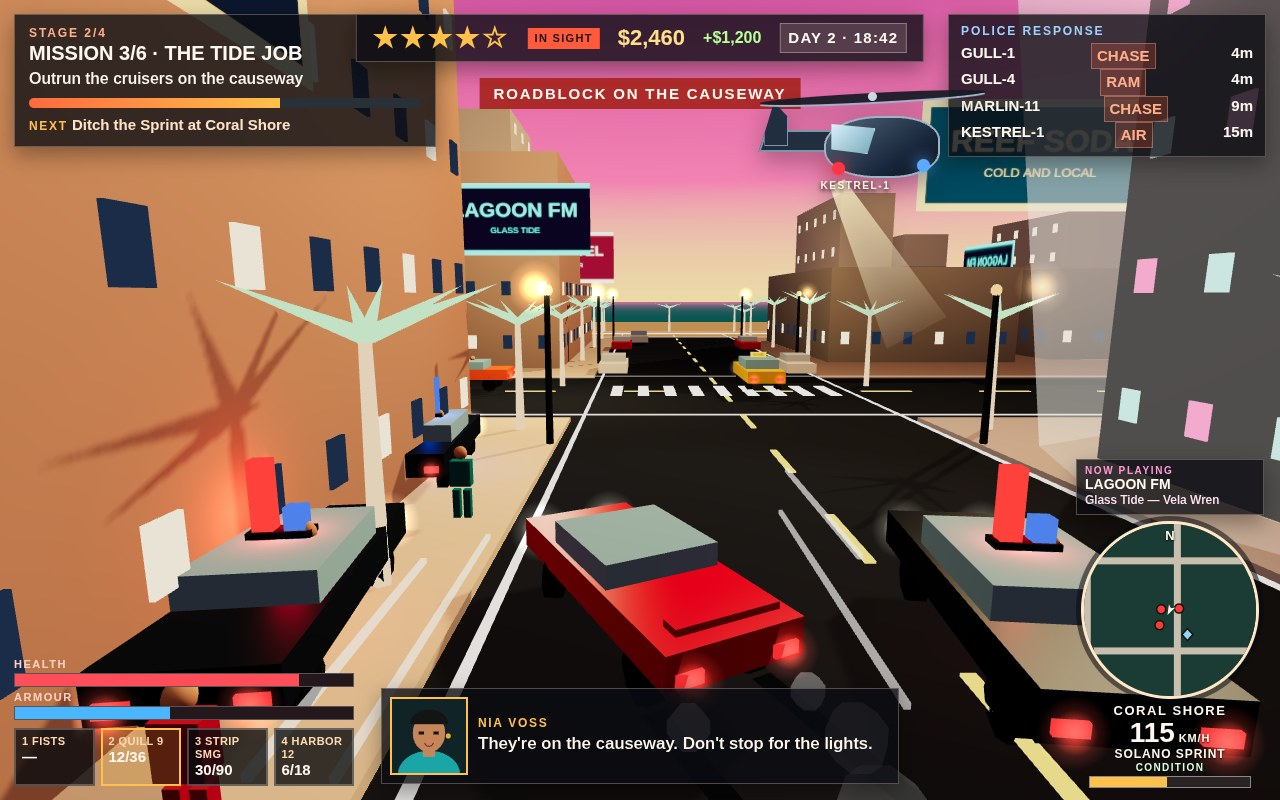
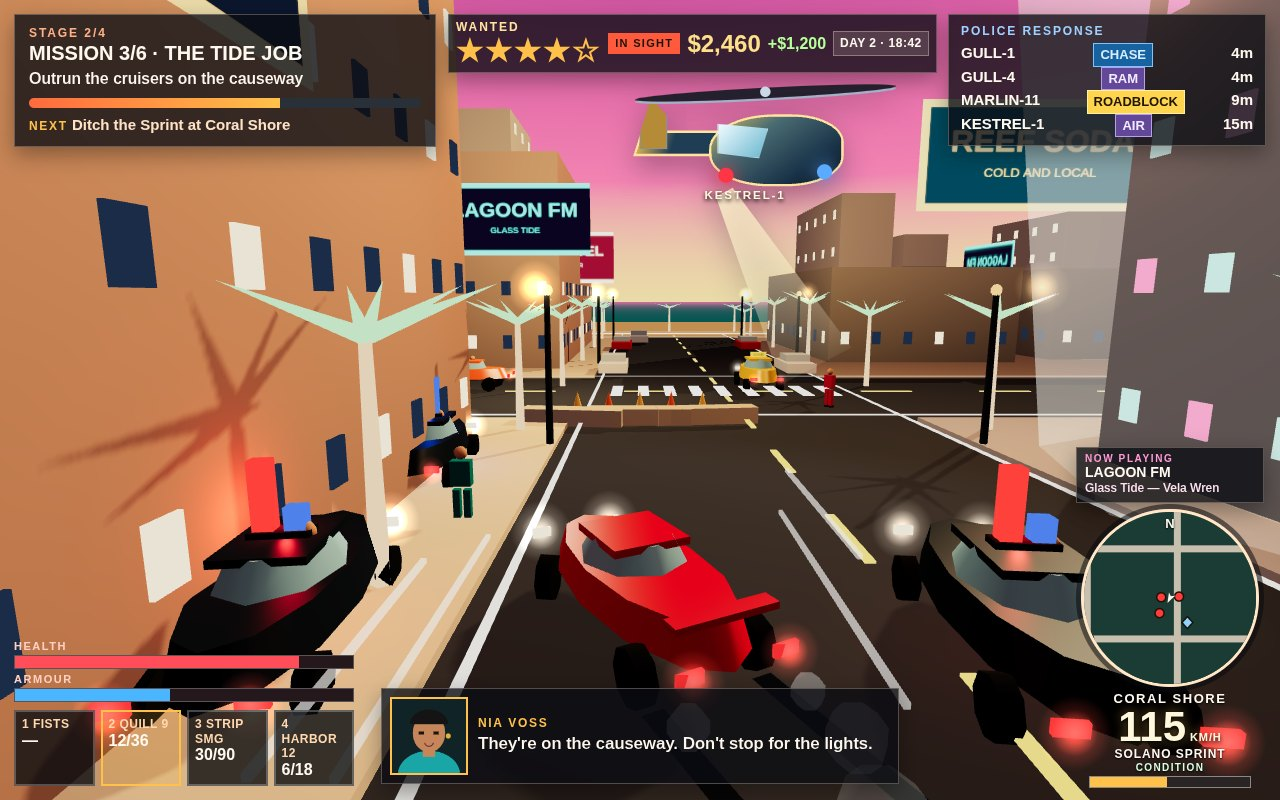
Polish chase and title presentation

diff --git a/game/index.html b/game/index.html
@@ -18,17 +18,23 @@
   #mission-fill { display: block; height: 100%; width: 0; background: linear-gradient(90deg, #ff6a3d, #ffc14a); }
   #mission-next { margin-top: 7px; font: 700 15px/1.3 sans-serif; color: #ffe2c6; }
   #mission-next b { color: #ffc14a; letter-spacing: 0.14em; font-size: 12px; }
-  #topbar { position: absolute; top: 14px; left: 50%; transform: translateX(-50%); display: flex; gap: 18px; align-items: center; padding: 8px 16px; }
-  #stars { color: #ffc14a; font: 800 28px/1 sans-serif; letter-spacing: 0.08em; }
+  #topbar { position: absolute; top: 14px; left: 35%; display: flex; gap: 7px; align-items: center; padding: 6px 7px; }
+  #stars { color: #ffc14a; font: 800 31px/1 sans-serif; letter-spacing: 0.04em; }
+  #stars::before { content: "WANTED"; display: block; margin-bottom: 2px; color: #ffe4a0; font: 900 12px/1 sans-serif; letter-spacing: 0.16em; }
   #insight { font: 800 11px/1 sans-serif; letter-spacing: 0.12em; color: #1a1208; background: #ff5a3c; padding: 5px 7px; }
-  #cash { font: 800 22px/1 sans-serif; color: #ffe08a; }
+  #cash { font: 800 24px/1 sans-serif; color: #ffe08a; }
   #cashpop { font: 800 16px/1 sans-serif; color: #b6ff9a; }
-  #clock { font: 700 15px/1.2 sans-serif; letter-spacing: 0.08em; padding: 5px 8px; background: rgba(255,244,230,0.14); border: 1px solid rgba(255,236,214,0.35); }
+  #clock { font: 700 12px/1.2 sans-serif; letter-spacing: 0.04em; padding: 4px 6px; background: rgba(255,244,230,0.14); border: 1px solid rgba(255,236,214,0.35); }
   #police { position: absolute; top: 14px; right: 14px; width: 292px; padding: 10px 12px 8px; }
   #police-kicker { font: 800 12px/1 sans-serif; letter-spacing: 0.16em; color: #9fd0ff; }
   #units { margin-top: 6px; font: 700 15px/1.35 sans-serif; }
   .unit { display: flex; justify-content: space-between; gap: 8px; }
-  .unit i { font-style: normal; color: #ffb089; padding: 2px 5px; background: rgba(255,90,60,0.22); border: 1px solid rgba(255,176,137,0.38); }
+  .unit i { font-style: normal; font-size: 13px; font-weight: 900; color: #fff; padding: 2px 6px; border: 1px solid transparent; }
+  .unit i.role-chase { color: #d7edff; background: #1762a1; border-color: #7bc5ff; }
+  .unit i.role-ram { color: #fff0d2; background: #bd4d21; border-color: #ffad63; }
+  .unit i.role-block { color: #211600; background: #ffd44f; border-color: #fff0a0; }
+  .unit i.role-air { color: #071629; background: #77d7ff; border-color: #d3f4ff; }
+  .unit i.role-other { color: #f2eaff; background: #63489a; border-color: #b7a0e9; }
   #notice { position: absolute; top: 78px; left: 50%; transform: translateX(-50%); padding: 8px 14px; background: rgba(168,36,32,0.92); font: 800 15px/1 sans-serif; letter-spacing: 0.12em; }
   #vitals { position: absolute; left: 14px; bottom: 14px; width: 340px; }
   .lbl { font: 800 11px/1 sans-serif; letter-spacing: 0.14em; color: #ffd0c4; margin-top: 5px; }
@@ -39,8 +45,8 @@
   #weapons { display: flex; gap: 6px; margin-top: 8px; }
   .slot { flex: 1; min-width: 0; padding: 5px 6px; border: 2px solid rgba(255,255,255,0.25); background: rgba(8,10,14,0.78); }
   .slot.on { border-color: #ffc14a; background: rgba(255,193,74,0.16); }
-  .slot span { display: block; font: 800 11px/1.2 sans-serif; letter-spacing: 0.04em; color: #ffd8b0; }
-  .slot b { font: 800 15px/1.15 sans-serif; }
+  .slot span { display: block; font: 800 12px/1.2 sans-serif; letter-spacing: 0.04em; color: #ffd8b0; }
+  .slot b { font: 800 16px/1.15 sans-serif; }
   #talk { position: absolute; left: 50%; bottom: 16px; width: 500px; transform: translateX(-50%); display: flex; gap: 10px; padding: 8px; align-items: center; }
   #portrait { width: 74px; height: 74px; background: #222; border: 2px solid #ffc14a; }
   #speaker { font: 800 12px/1 sans-serif; letter-spacing: 0.14em; color: #ffc14a; }
@@ -54,21 +60,21 @@
   #minimap { width: 172px; height: 172px; display: block; background: #14343a; }
   #north { position: absolute; top: 5px; left: 0; right: 0; text-align: center; font: 800 13px/1 sans-serif; text-shadow: 0 1px 2px #000; }
   #district { margin-top: 4px; font: 800 13px/1.2 sans-serif; letter-spacing: 0.12em; text-shadow: 0 1px 2px #000; }
-  #speed { font: 800 28px/1 sans-serif; text-shadow: 0 1px 2px #000; }
+  #speed { font: 900 42px/0.95 sans-serif; color: #fff8dc; text-shadow: 0 2px 4px #000, 0 0 12px rgba(255,189,78,0.5); }
   #speed small { font-size: 11px; letter-spacing: 0.08em; }
   #veh-name { font: 800 12px/1.2 sans-serif; letter-spacing: 0.08em; text-shadow: 0 1px 2px #000; }
   #cond-label { margin-top: 2px; font: 800 10px/1 sans-serif; letter-spacing: 0.14em; color: #d7ffe0; text-shadow: 0 1px 2px #000; }
   #cond { height: 10px; width: 160px; margin: 3px auto 0; background: #2a2424; border: 1px solid rgba(255,255,255,0.45); }
   #cond b { display: block; height: 100%; width: 0; background: #7dff6a; }
   #crosshair { position: absolute; left: 50%; top: 44%; width: 6px; height: 6px; margin: -3px 0 0 -3px; background: #fff; border-radius: 50%; box-shadow: 0 0 0 1px #111, 10px 0 0 -1px #fff, 16px 0 0 -1px #fff, 22px 0 0 -1px #fff, -10px 0 0 -1px #fff, -16px 0 0 -1px #fff, -22px 0 0 -1px #fff, 0 10px 0 -1px #fff, 0 16px 0 -1px #fff, 0 22px 0 -1px #fff, 0 -10px 0 -1px #fff, 0 -16px 0 -1px #fff, 0 -22px 0 -1px #fff; }
-  #chase-air { position: absolute; display: none; left: 58%; top: 76px; width: 260px; height: 150px; z-index: 3; filter: drop-shadow(0 10px 12px rgba(18,8,28,0.32)); }
+  #chase-air { position: absolute; display: none; left: 48%; top: 68px; width: 260px; height: 150px; z-index: 3; transform: scale(1.16); transform-origin: top left; filter: drop-shadow(0 10px 12px rgba(18,8,28,0.32)); }
   #chase-air.show { display: block; }
   #chase-air .rotor { position: absolute; left: 18px; top: 17px; width: 225px; height: 9px; border-radius: 50%; background: rgba(22,26,36,0.92); transform: rotate(-3deg); box-shadow: 0 2px 0 #9eb2c8; }
   #chase-air .rotor::before { content: ""; position: absolute; left: 108px; top: -1px; width: 9px; height: 9px; border-radius: 50%; background: #cbd9e4; }
-  #chase-air .body { position: absolute; left: 82px; top: 40px; width: 112px; height: 58px; border-radius: 48% 38% 42% 44%; background: linear-gradient(145deg,#52677a,#17253a 68%,#0b1018); border: 2px solid #9db4c5; }
-  #chase-air .glass { position: absolute; left: 89px; top: 48px; width: 42px; height: 28px; clip-path: polygon(0 0,100% 14%,82% 100%,0 85%); background: linear-gradient(135deg,#d8eff7,#76aabd); border: 1px solid #dcecf2; }
-  #chase-air .tail { position: absolute; left: 20px; top: 54px; width: 76px; height: 18px; background: #202e40; border: 2px solid #7f94a5; transform: skewX(-18deg); }
-  #chase-air .fin { position: absolute; left: 22px; top: 26px; width: 22px; height: 42px; background: #202e40; clip-path: polygon(40% 0,100% 35%,100% 100%,0 100%,0 72%); border: 1px solid #7f94a5; }
+  #chase-air .body { position: absolute; left: 82px; top: 40px; width: 112px; height: 58px; border-radius: 48% 38% 42% 44%; background: linear-gradient(145deg,#d5b95e 0%,#496b72 32%,#183147 74%,#0b1018); border: 2px solid #ffe4a0; }
+  #chase-air .glass { position: absolute; left: 89px; top: 48px; width: 42px; height: 28px; clip-path: polygon(0 0,100% 14%,82% 100%,0 85%); background: linear-gradient(135deg,#effbff,#69b6cf); border: 1px solid #dcecf2; }
+  #chase-air .tail { position: absolute; left: 20px; top: 54px; width: 76px; height: 18px; background: linear-gradient(90deg,#d4ad4b,#203d56 38%); border: 2px solid #ffe4a0; transform: skewX(-18deg); }
+  #chase-air .fin { position: absolute; left: 22px; top: 26px; width: 22px; height: 42px; background: #b68b38; clip-path: polygon(40% 0,100% 35%,100% 100%,0 100%,0 72%); border: 1px solid #7f94a5; }
   #chase-air .lamp-l { position: absolute; left: 90px; top: 86px; width: 13px; height: 13px; border-radius: 50%; background: #ff3444; box-shadow: 0 0 16px #ff3444; }
   #chase-air .lamp-r { position: absolute; left: 175px; top: 83px; width: 13px; height: 13px; border-radius: 50%; background: #5aaaff; box-shadow: 0 0 16px #5aaaff; }
   #chase-air .beam { position: absolute; left: 125px; top: 91px; width: 170px; height: 68px; transform: rotate(62deg); transform-origin: 0 0; clip-path: polygon(0 38%,100% 0,100% 100%,0 62%); background: linear-gradient(90deg,rgba(255,246,205,0.82),rgba(255,246,205,0.08)); }

diff --git a/game/src/shots.js b/game/src/shots.js
@@ -56,11 +56,15 @@ function placePed(ped, x, z, yaw) {
   ped.mesh.rotation.y = yaw;
 }
 
-function driftFx(scene, x, z, yaw) {
+function driftFx(scene, x, z, yaw, roadYaw) {
   const nx = -Math.sin(yaw);
   const nz = -Math.cos(yaw);
   const rx = Math.cos(yaw);
   const rz = -Math.sin(yaw);
+  const roadX = -Math.sin(roadYaw);
+  const roadZ = -Math.cos(roadYaw);
+  const sideX = Math.cos(roadYaw);
+  const sideZ = -Math.sin(roadYaw);
   const smokeGeo = new THREE.SphereGeometry(0.34, 6, 5);
   const puff = [
     [0.72, 2.35, 0.28, 0.55, 0.4],
@@ -104,9 +108,9 @@ function driftFx(scene, x, z, yaw) {
   const blockGeo = new THREE.BoxGeometry(3.4, 0.55, 0.8);
   for (let i = -1; i <= 1; i++) {
     const mesh = new THREE.Mesh(blockGeo, blockMat);
-    const dist = 7.4 + i * 0.15;
-    mesh.position.set(x - nx * dist + rx * i * 2.25, 0.32, z - nz * dist + rz * i * 2.25);
-    mesh.rotation.y = yaw + (i === 0 ? 0 : i * 0.12);
+    const dist = 13.5 + i * 0.15;
+    mesh.position.set(x + roadX * dist + sideX * i * 2.25, 0.32, z + roadZ * dist + sideZ * i * 2.25);
+    mesh.rotation.y = roadYaw + (i === 0 ? 0 : i * 0.12);
     mesh.castShadow = true;
     scene.add(mesh);
   }
@@ -115,13 +119,13 @@ function driftFx(scene, x, z, yaw) {
       new THREE.ConeGeometry(0.24, 0.85, 7),
       new THREE.MeshLambertMaterial({ color: i % 2 ? 0xff7a24 : 0xffcc55 }),
     );
-    cone.position.set(x - nx * 8.8 + rx * i * 1.15, 0.42, z - nz * 8.8 + rz * i * 1.15);
+    cone.position.set(x + roadX * 15.5 + sideX * i * 1.15, 0.42, z + roadZ * 15.5 + sideZ * i * 1.15);
     scene.add(cone);
   }
 }
 
 function stageChase(world, shot) {
-  const { combat, wanted, missions, dialogue, toast, radio } = world;
+  const { combat, wanted, missions, dialogue, toast, radio, peds } = world;
   setWantedStars(wanted, 4, shot.x, shot.z);
   wanted.seen = true;
   const ride = drive(world, 0, shot, 32, 0.48);
@@ -136,7 +140,9 @@ function stageChase(world, shot) {
   stagePolice(world.police, 'chase', shot.x, shot.z, shot.yaw);
   world.police.officers[0].active = false;
   world.police.officers[0].mesh.visible = false;
-  driftFx(world.scene, shot.x, shot.z, shot.face);
+  driftFx(world.scene, shot.x, shot.z, shot.face, shot.yaw);
+  placePed(peds.list[0], shot.x - 7.2, shot.z - 13, shot.face + 1.5);
+  placePed(peds.list[1], shot.x + 7.4, shot.z - 17, shot.face - 1.5);
   const facadeLight = new THREE.PointLight(0xffbd78, 38, 38, 1.35);
   facadeLight.position.set(shot.x + 10, 12, shot.z - 8);
   world.scene.add(facadeLight);
@@ -150,8 +156,8 @@ function stageChase(world, shot) {
   combat.loadout.index = 1;
   stageMission(missions, 'chase');
   sayLine(dialogue, 'nia', "They're on the causeway. Don't stop for the lights.", 999);
-  toast.text = 'ROADBLOCK ON THE CAUSEWAY';
-  toast.t = 999;
+  toast.text = '';
+  toast.t = 0;
   radio.index = 0;
   return ride;
 }

diff --git a/game/src/vehicles.js b/game/src/vehicles.js
@@ -16,6 +16,8 @@ export const CAR_TYPES = [
 const BOX = new THREE.BoxGeometry(1, 1, 1);
 const WHEEL_GEO = new THREE.CylinderGeometry(0.33, 0.33, 0.22, 8);
 WHEEL_GEO.rotateZ(Math.PI / 2);
+const BODY_GEO = new THREE.CylinderGeometry(0.9, 1, 1, 12, 1);
+const CABIN_GEO = new THREE.CylinderGeometry(0.72, 1, 1, 8, 1);
 const HEAD_GEO = new THREE.SphereGeometry(0.12, 6, 5);
 const GLASS = new THREE.MeshLambertMaterial({ color: 0x8ec4dc });
 const RUBBER = new THREE.MeshLambertMaterial({ color: 0x1a1c20 });
@@ -81,11 +83,17 @@ function buildCar(type) {
   const W = type.width;
   const H = type.height;
   const bodyY = 0.55 + H / 2;
-  const body = box(bodyMat, 0, bodyY, 0, W * 0.92, H, L);
+  const body = new THREE.Mesh(BODY_GEO, bodyMat);
+  body.position.y = bodyY;
+  body.scale.set(W * 0.46, H, L * 0.49);
   body.castShadow = true;
   group.add(body);
   const cabinY = 0.55 + H + type.cabinH / 2 - 0.06;
-  group.add(box(GLASS, 0, cabinY, type.cabinZ, W * 0.84, type.cabinH, type.cabinL));
+  const cabin = new THREE.Mesh(CABIN_GEO, GLASS);
+  cabin.position.set(0, cabinY, type.cabinZ);
+  cabin.scale.set(W * 0.4, type.cabinH, type.cabinL * 0.5);
+  group.add(cabin);
+  group.add(box(bodyMat, 0, cabinY + type.cabinH * 0.43, type.cabinZ, W * 0.58, 0.1, type.cabinL * 0.68));
   const nose = -L / 2;
   const tail = L / 2;
   group.add(box(headMat, -W * 0.32, bodyY * 0.92, nose - 0.02, 0.28, 0.14, 0.06));
@@ -98,7 +106,7 @@ function buildCar(type) {
   addGlow(group, W * 0.32, bodyY * 0.9, tail + 0.08, 0xff2a30, 0.62);
   const wheels = [];
   const wz = L * 0.32;
-  const wx = W * 0.36;
+  const wx = W * 0.42;
   const spots = [[-wx, -wz], [wx, -wz], [-wx, wz], [wx, wz]];
   for (let i = 0; i < spots.length; i++) {
     const pivot = new THREE.Group();

diff --git a/game/src/hud.js b/game/src/hud.js
@@ -175,8 +175,9 @@ export function updateHud(hud, s) {
     const n = Math.min(4, rows.length);
     for (let i = 0; i < n; i++) {
       const r = rows[i];
-      const role = r.role === 'chase' ? 'PURSUIT' : r.role === 'ram' ? 'RAMMING' : r.role === 'roadblock' ? 'ROADBLOCK' : r.role === 'air' ? 'SPOTLIGHT' : r.role;
-      html += '<div class="unit"><span>' + r.callsign + '</span><i>' + role + '</i><span>' + Math.round(r.dist) + 'm</span></div>';
+      const role = r.role === 'chase' ? 'CHASE' : r.role === 'ram' ? 'RAMMING' : r.role === 'roadblock' ? 'ROADBLOCK' : r.role === 'air' ? 'SPOTLIGHT' : r.role;
+      const chip = role === 'CHASE' ? 'chase' : role === 'RAMMING' ? 'ram' : role === 'ROADBLOCK' ? 'block' : role === 'SPOTLIGHT' ? 'air' : 'other';
+      html += '<div class="unit"><span>' + r.callsign + '</span><i class="role-' + chip + '">' + role + '</i><span>' + Math.round(r.dist) + 'm</span></div>';
     }
     hud.units.innerHTML = html;
   }

diff --git a/game/src/city.js b/game/src/city.js
@@ -8,7 +8,7 @@ import { dressAvenue } from './avenue.js';
 const PALETTE = {
   'Coral Shore': [0xffe4c4, 0xfff8ef, 0xf0a088, 0xf7cbb4],
   'Old Harbor': [0xd2b498, 0xa88870, 0xe4d2bc, 0x7f8e9a],
-  'Neon Strip': [0x1a2236, 0x2c2448, 0x141a28, 0x101620],
+  'Neon Strip': [0x554650, 0x614d65, 0x3f4358, 0x4a3e48],
   'Palm Heights': [0xffe6c2, 0xf4efe4, 0xe4d0a8, 0xd5e4d8],
   'Industrial Docks': [0x9aa2aa, 0x727a82, 0xb4bac0, 0x5c656e],
 };
@@ -97,7 +97,7 @@ export function createCity(scene, rng) {
 
   const asphalt = new THREE.Mesh(
     new THREE.PlaneGeometry(cityW + 36, cityD + 36),
-    new THREE.MeshLambertMaterial({ color: 0x2a313c }),
+    new THREE.MeshLambertMaterial({ color: 0x424650 }),
   );
   asphalt.rotation.x = -Math.PI / 2;
   asphalt.position.set(cityW / 2, 0, cityD / 2);

diff --git a/game/src/main.js b/game/src/main.js
@@ -230,7 +230,7 @@ function shotPreview() {
   return {
     v: 1, x: SAFEHOUSE.x, z: SAFEHOUSE.z, yaw: 0.2,
     health: 84, armour: 40, cash: 2460, stars: 0,
-    day: 2, clock: 21 * 3600 + 18 * 60, radio: 2,
+    day: 2, clock: 18 * 3600 + 42 * 60, radio: 2,
     place: 'SAFEHOUSE', district: 'Coral Shore',
     missionTitle: 'MISSION 3/6 · THE TIDE JOB',
     played: 2 * 3600 + 14 * 60,
@@ -509,7 +509,7 @@ function placeCamera() {
     scene.fog.near = 280;
     scene.fog.far = 1600;
   }
-  if (shotName === 'start') exposure = 1.08;
+  if (shotName === 'start') exposure = 1.2;
   renderer.toneMappingExposure = exposure;
   frameFocus();
   updateChaseCamera(camera, rig, focus);

diff --git a/game/src/config.js b/game/src/config.js
@@ -31,7 +31,7 @@ export const SHOTS = {
   chase: { x: 128.4, z: 64, face: 0.48, yaw: 0, pitch: 0.16, dist: 18.8, lookY: 1.28, aim: 10.8 },
   onfoot: { x: 133.9, z: 132, face: 0.04, yaw: 0.04, pitch: 0.24, dist: 11.2, lookY: 1.2 },
   city: { x: 70, z: 45.9, face: -1.57, yaw: 0.1, pitch: 0.47, dist: 250, lookY: 5 },
-  start: { x: 154, z: 40, face: 0, yaw: 0.62, pitch: 0.44, dist: 220, lookY: 8 },
+  start: { x: 142, z: 68, face: 0, yaw: 0.5, pitch: 0.52, dist: 188, lookY: 8 },
 };
 
 export function blockBounds(ix, iz) {

diff --git a/game/src/police.js b/game/src/police.js
@@ -352,7 +352,7 @@ export function stagePolice(police, shot, x, z, yaw) {
     const cops = [
       { s: -4.3, b: 0.35, turn: 0.12, role: 'chase', t: 0.02 },
       { s: 4.4, b: 0.7, turn: -0.1, role: 'ram', t: 0.16 },
-      { s: -5.1, b: -7.4, turn: 0.08, role: 'chase', t: 0.28 },
+      { s: -5.1, b: -7.4, turn: 0.08, role: 'roadblock', t: 0.28 },
     ];
     for (let i = 0; i < cops.length; i++) {
       const c = cops[i];

diff --git a/NOTES.md b/NOTES.md
@@ -145,3 +145,7 @@ Submit from the kit once the recording is sealed. Do not replace `1-chase.jpg`. 
 The chase camera now sits closer behind the Solano Sprint and uses a warmer sunset palette. The chase art adds tyre smoke, skid marks, cones and concrete roadblock pieces, glossy sport paint, and stronger warm roadside and road lighting. KESTREL-1 was enlarged in the helicopter mesh and a clearly readable staged upper-third chase silhouette with rotors, fuselage, tail, nav lights and spotlight beam was added for the cover contact sheet. Police response roles are restyled as compact colored pursuit, ramming, roadblock and spotlight chips.
 
 All four screenshots were recaptured at 1280×800: the on-foot scene retains the crosshair, officers and tracers, the city shot has traffic and the coastal flyover view, and the start shot uses the late-golden flyover instead of the older night view.
+
+## Contact-sheet polish
+
+The staged roadblock and cones now sit ahead of the Sprint, and two pedestrians occupy the sidewalks in the chase frame. Car bodies use a low-poly tapered profile with a raised roof, wheels pulled inside the body, and cleaner cabin proportions. Asphalt is a lighter warm charcoal. The chase HUD gives wanted stars, cash and speed more weight, with distinct CHASE, RAMMING, ROADBLOCK and SPOTLIGHT chips; KESTREL-1 is larger and its rotor, cabin and beacon colours stand out without crossing the top-row panels. The start flyover is lower and closer to the road grid.
